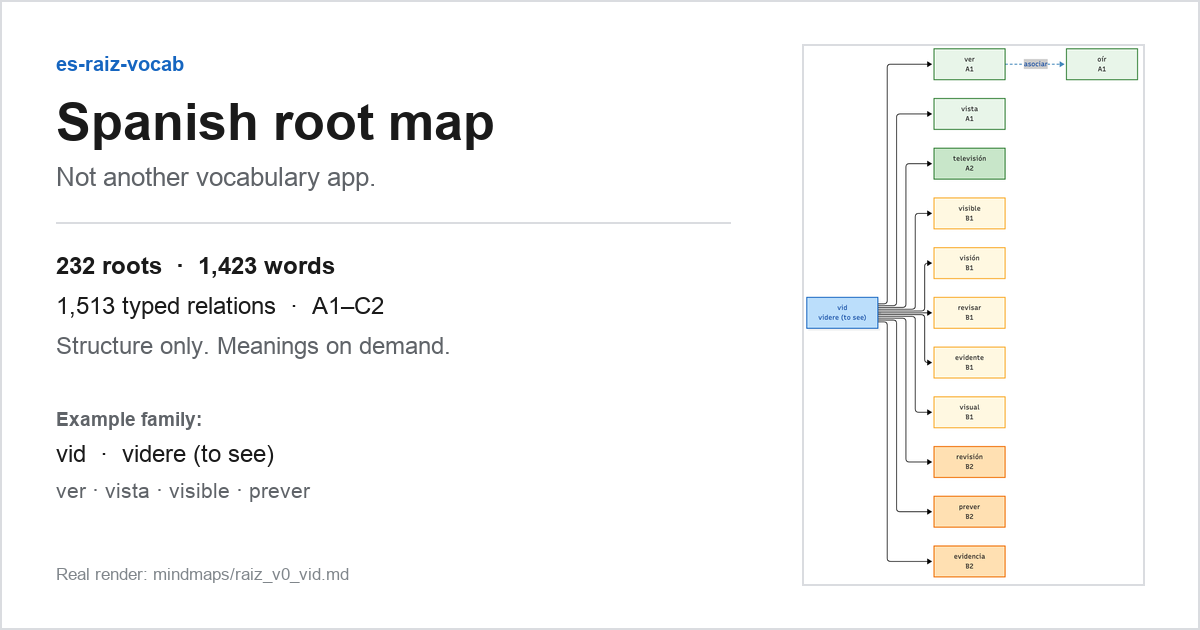
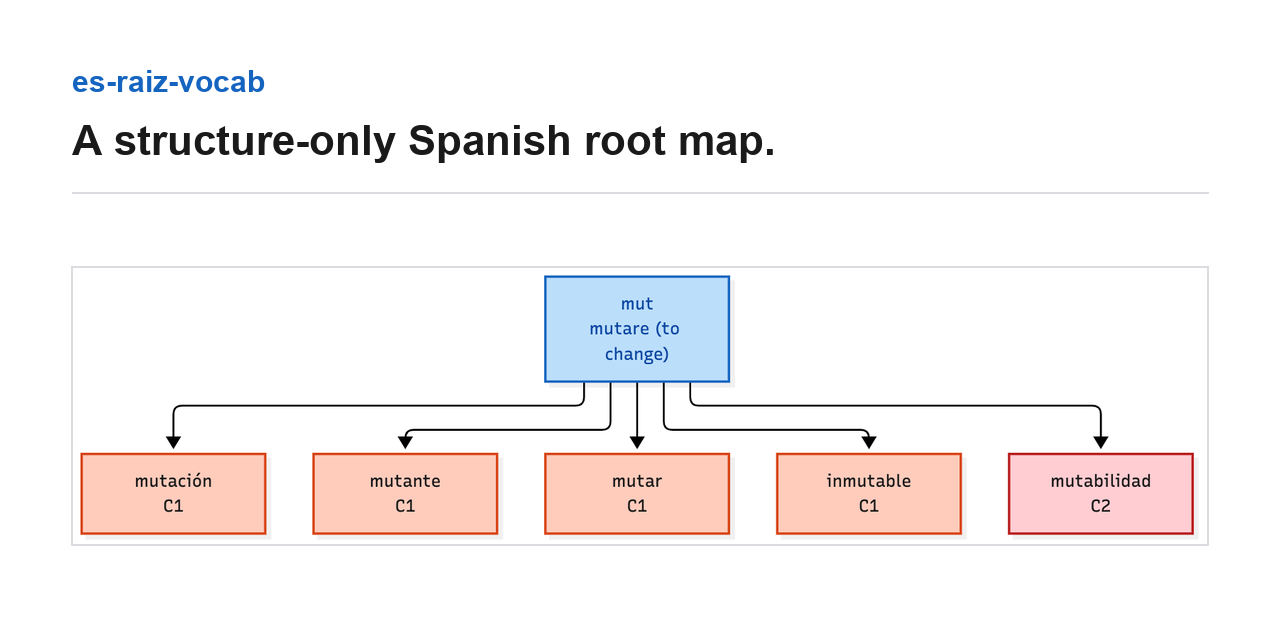
feat(assets): compose 1280x640 social card from real mut render
Compose the card locally with Pillow from the unmodified mut Mermaid base, update both README captions, and document the new script and completed spec. No image model was used.

diff --git a/scripts/make_root_tree_social_card.py b/scripts/make_root_tree_social_card.py
@@ -1,0 +1,98 @@
+#!/usr/bin/env python3
+# -*- coding: utf-8 -*-
+"""Compose the 1280x640 GitHub social card from the real Mermaid base render.
+
+Input:  assets/root_tree-social-base.png  (mmdc render of the real `mut` family)
+Output: assets/root_tree.png              (1280x640 card, no image model)
+
+The diagram is pasted unchanged apart from uniform scaling. No node is added,
+removed, renamed, or recolored.
+
+Optional dependency: Pillow (not required by the data pipeline).
+
+Usage:
+    python scripts/make_root_tree_social_card.py
+"""
+
+from __future__ import annotations
+
+from pathlib import Path
+
+try:
+    from PIL import Image, ImageDraw, ImageFont
+except ImportError:  # pragma: no cover
+    raise SystemExit("缺少 Pillow，请先执行：pip install pillow")
+
+REPO_ROOT = Path(__file__).resolve().parent.parent
+BASE = REPO_ROOT / "assets" / "root_tree-social-base.png"
+OUTPUT = REPO_ROOT / "assets" / "root_tree.png"
+
+WIDTH, HEIGHT = 1280, 640
+MARGIN = 72
+
+INK = "#1a1a1a"
+BLUE = "#1565c0"
+LINE = "#dadce0"
+WHITE = "#ffffff"
+
+PROJECT_NAME = "es-raiz-vocab"
+TAGLINE = "A structure-only Spanish root map."
+
+
+def load_font(size: int, bold: bool = False):
+    candidates = [
+        "/System/Library/Fonts/Supplemental/Arial Bold.ttf" if bold else "/System/Library/Fonts/Supplemental/Arial.ttf",
+        "/System/Library/Fonts/Supplemental/Arial.ttf",
+        "/System/Library/Fonts/Helvetica.ttc",
+        "/usr/share/fonts/truetype/dejavu/DejaVuSans-Bold.ttf" if bold else "/usr/share/fonts/truetype/dejavu/DejaVuSans.ttf",
+    ]
+    for path in candidates:
+        try:
+            return ImageFont.truetype(path, size)
+        except OSError:
+            continue
+    return ImageFont.load_default()
+
+
+def main() -> int:
+    if not BASE.exists():
+        raise SystemExit(
+            "缺少 assets/root_tree-social-base.png，请先按 assets/root_tree-spec.md 渲染"
+        )
+
+    canvas = Image.new("RGB", (WIDTH, HEIGHT), WHITE)
+    draw = ImageDraw.Draw(canvas)
+
+    draw.text((MARGIN, 64), PROJECT_NAME, font=load_font(30, bold=True), fill=BLUE)
+    draw.text((MARGIN, 116), TAGLINE, font=load_font(42, bold=True), fill=INK)
+    draw.line([MARGIN, 192, WIDTH - MARGIN, 192], fill=LINE, width=2)
+
+    diagram = Image.open(BASE).convert("RGB")
+    max_width = WIDTH - 2 * MARGIN
+    scale = min(1.0, max_width / diagram.width)
+    new_size = (
+        max(1, int(diagram.width * scale)),
+        max(1, int(diagram.height * scale)),
+    )
+    diagram = diagram.resize(new_size, Image.LANCZOS)
+
+    x = (WIDTH - new_size[0]) // 2
+    top = 220
+    bottom = HEIGHT - 48
+    y = top + (bottom - top - new_size[1]) // 2
+
+    canvas.paste(diagram, (x, y))
+    draw.rectangle(
+        [x - 1, y - 1, x + new_size[0], y + new_size[1]],
+        outline=LINE,
+        width=2,
+    )
+
+    canvas.save(OUTPUT, format="PNG", optimize=True)
+    print("written: {0} ({1}x{2})".format(OUTPUT.relative_to(REPO_ROOT), WIDTH, HEIGHT))
+    print("diagram: {0}x{1} at ({2}, {3})".format(new_size[0], new_size[1], x, y))
+    return 0
+
+
+if __name__ == "__main__":
+    raise SystemExit(main())

diff --git a/assets/README.md b/assets/README.md
@@ -8,9 +8,9 @@ README visuals for `es-raiz-vocab`.
 | --- | --- | --- |
 | `root_tree.svg` | Vector render of the selected `mut` family (exact generated Mermaid, `graph LR`) | `mindmaps/raiz_b12_mut.md` |
 | `root_tree-social-base.svg` | Top-down (`graph TD`) presentation render of the same `mut` nodes, for a 2:1 card | same Mermaid block; only `rankdir` changed |
-| `root_tree-social-base.png` | 1600 × 392 PNG base for the 1280 × 640 social card | same |
-| `root_tree_family.png` | Pure PNG render of the older `vid` family (1013 × 1600) | `mindmaps/raiz_v0_vid.md` |
-| `root_tree.png` | **Legacy** 1200 × 630 `vid` card; replace it with the 1280 × 640 card described in `root_tree-spec.md` | `scripts/make_root_tree_card.py` |
+| `root_tree-social-base.png` | 1600 × 392 PNG base for the 1280 × 640 local composition | same |
+| `root_tree_family.png` | Legacy pure PNG render of the older `vid` family (1013 × 1600) | `mindmaps/raiz_v0_vid.md` |
+| `root_tree.png` | 1280 × 640 social card, composed locally from the `mut` base with Pillow | `scripts/make_root_tree_social_card.py` |
 | `root_tree-spec.md` | Social preview spec, selected branch, render commands, and QA checklist | handwritten |
 | `demo.gif` | **Labeled placeholder, not a recording** (1200 × 630) | `scripts/make_demo_placeholder.py` |
 
@@ -18,7 +18,7 @@ README visuals for `es-raiz-vocab`.
 
 `mindmaps/root_tree.md` is an **index** (tables of 232 roots). It contains **zero** fenced `mermaid` blocks, so `mmdc -i mindmaps/root_tree.md` has nothing to render.
 
-The new base assets are rendered from a real generated family page, `mindmaps/raiz_b12_mut.md` (`mut` = “to change”, 5 derivatives, all C1/C2). The older `root_tree_family.png` and `root_tree.png` still use `vid`; the 1200 × 630 card is legacy and should be replaced with the 1280 × 640 card described in [`root_tree-spec.md`](root_tree-spec.md).
+The new base assets and the 1280 × 640 card are rendered from a real generated family page, `mindmaps/raiz_b12_mut.md` (`mut` = “to change”, 5 derivatives, all C1/C2). The legacy `root_tree_family.png` still uses `vid`; the old `scripts/make_root_tree_card.py` is kept only for the earlier 1200 × 630 card.
 
 ## Regenerate
 
@@ -54,17 +54,20 @@ PUPPETEER_EXECUTABLE_PATH="/Applications/Google Chrome.app/Contents/MacOS/Google
   -o assets/root_tree-social-base.png \
   -b white --size 1600
 
-# 4. Regenerate the labeled demo placeholder (optional)
+# 4. Compose the 1280 × 640 social card from the real base
+python scripts/make_root_tree_social_card.py
+
+# 5. Regenerate the labeled demo placeholder (optional)
 python scripts/make_demo_placeholder.py
 ```
 
-Legacy assets: `root_tree_family.png` and `root_tree.png` still come from the older `vid` render and `scripts/make_root_tree_card.py` (1200 × 630). Do not use that script for the new 1280 × 640 card; see [`root_tree-spec.md`](root_tree-spec.md).
+Legacy assets: `root_tree_family.png` and `scripts/make_root_tree_card.py` produce the older 1200 × 630 `vid` card. Do not use that script for `root_tree.png`; use `make_root_tree_social_card.py`.
 
 On Linux, replace the Chrome path with the installed Chrome/Chromium executable, or let puppeteer manage its own browser.
 
 ## Social preview
 
-`assets/root_tree.png` is currently the **legacy 1200 × 630 `vid` card**. Do not upload it as the new preview. Follow [`root_tree-spec.md`](root_tree-spec.md): use `root_tree-social-base.png` to produce a **1280 × 640** card, then upload it manually in **Settings → Social preview** and check that the text and graph are legible at small size. Do not claim it is active until the upload is confirmed.
+`assets/root_tree.png` is the **1280 × 640 `mut` card** composed locally with Pillow from the unmodified Mermaid base. Upload it manually in **Settings → Social preview**, then check that the text and graph are legible at small size. Do not claim it is active until the upload is confirmed.
 
 ## Rules
 

diff --git a/assets/root_tree-spec.md b/assets/root_tree-spec.md
@@ -1,10 +1,10 @@
 # Social preview card spec — `assets/root_tree.png`
 
-- Status: **base render ready; final 1280 × 640 card not yet produced**
+- Status: **complete — 1280 × 640 card composed locally with Pillow**
 - Last updated: 2026-11-08
 - Target file: `assets/root_tree.png`
-- Current `assets/root_tree.png`: still the old **1200 × 630** `vid` card. Replace it; do not upload it as the new GitHub Social preview.
-- README reference: both `README.md` and `README.zh-CN.md` already point to `assets/root_tree.png`; keep that path.
+- Current `assets/root_tree.png`: **1280 × 640** `mut` card, composed on 2026-11-08 by `scripts/make_root_tree_social_card.py`; no image model was used.
+- README reference: both `README.md` and `README.zh-CN.md` point to `assets/root_tree.png`; the path is unchanged.
 
 ## 1. Selected branch
 
@@ -43,8 +43,8 @@ Why this branch:
 | --- | --- | --- |
 | `assets/root_tree.svg` | Exact render of the extracted `mut` Mermaid block, `graph LR`; `click` lines removed so the SVG has no interactive links | Ready |
 | `assets/root_tree-social-base.svg` | Top-down presentation layout (`graph TD`) of the same nodes, edges, labels, and classes; **only `rankdir` changed** | Ready |
-| `assets/root_tree-social-base.png` | 1600 × 392 PNG of the top-down layout, intended as the image-to-image base for 豆包 | Ready |
-| `assets/root_tree.png` | Final 1280 × 640 social card | **Still the old 1200 × 630 `vid` card; replace manually** |
+| `assets/root_tree-social-base.png` | 1600 × 392 PNG of the top-down layout, used as the base for the local 1280 × 640 composition (also usable for image-to-image) | Ready |
+| `assets/root_tree.png` | Final 1280 × 640 social card | **Ready — composed locally with `scripts/make_root_tree_social_card.py`** |
 
 The generated page remains `graph LR`. The `TD` version exists only because a left-to-right family graph stacks seven or more siblings vertically and becomes unreadable when fitted into a 2:1 social card. No node, edge, label, CEFR value, or color was changed.
 
@@ -92,15 +92,17 @@ Suggested composition:
 
 The diagram can run full-width under the title. Leave the bottom area empty rather than adding more text.
 
-## 5. Recommended workflow
+## 5. Completed workflow
 
-1. Start from `assets/root_tree-social-base.png` (1600 × 392) or `assets/root_tree-social-base.svg`.
-2. Use 豆包 / Seedream as an **image-to-image / canvas-expansion** tool, not as a text-to-image generator.
-3. Expand the canvas to **1280 × 640**, keep the diagram unchanged, add only the project name and the one sentence.
-4. Export PNG at 1280 × 640, sRGB, < 1 MB.
-5. Verify every character manually against this spec and `mindmaps/raiz_b12_mut.md`.
-6. Replace `assets/root_tree.png`. Do not change the README image path.
-7. Upload the new file in **GitHub → Settings → Social preview**, then check new Reddit, old Reddit, and mobile.
+The current card was composed locally with `scripts/make_root_tree_social_card.py` on 2026-11-08. No image model was used.
+
+1. Render the real `mut` Mermaid block to `assets/root_tree-social-base.png`.
+2. Run `python scripts/make_root_tree_social_card.py`; it scales the diagram uniformly and adds only the project name and the one sentence.
+3. Verify every character against this spec and `mindmaps/raiz_b12_mut.md`.
+4. Replace `assets/root_tree.png`; the README image path stays the same.
+5. Upload the file in **GitHub → Settings → Social preview**, then check new Reddit, old Reddit, and mobile.
+
+For a future redesign, the same rule applies: start from the real render. The 豆包 prompt below is optional and must be used as **image-to-image**, never text-to-image.
 
 Suggested 豆包 prompt (image-to-image):
 

diff --git a/README.zh-CN.md b/README.zh-CN.md
@@ -14,9 +14,9 @@
 [![License: MIT](https://img.shields.io/badge/License-MIT-yellow.svg)](LICENSE)
 ![Python 3.9+](https://img.shields.io/badge/Python-3.9%2B-blue)
 
-![一张横向卡片，内容来自自动生成的西语词族图：词根 vid（videre，看见）及其派生词，节点按 CEFR 着色，并带一条 asociar 联想边](assets/root_tree.png)
+![一张横向卡片，内容来自自动生成的西语词族图：词根 mut（mutare，改变）及其派生词，节点按 CEFR 着色](assets/root_tree.png)
 
-*卡片内容来自真实生成的词族页：词根 `vid`（“看见”）、它的派生词、CEFR 配色，以及一条 `asociar` 联想边。完整索引包含 232 个词根，每个词根链接到自己的图页。*
+*卡片内容来自真实生成的词族页：词根 `mut`（“改变”）和 5 个 C1/C2 派生词。完整索引包含 232 个词根，每个词根链接到自己的图页。*
 
 ---
 
@@ -162,7 +162,8 @@ es-raiz-vocab/
 │   ├── generate_mermaid.py   # data -> mindmaps/ + levels/
 │   ├── build_no_raiz.py      # data -> no-raiz-vocab.md + 可选 YAML
 │   ├── export_pdf.py         # 可选离线 PDF -> dist/pdf/
-│   ├── make_root_tree_card.py    # 可选：生成 README / 社交预览横版卡片
+│   ├── make_root_tree_card.py    # 可选：旧版 1200x630 卡片
+│   ├── make_root_tree_social_card.py  # 可选：从真实底图合成 1280x640 卡片
 │   └── make_demo_placeholder.py  # 可选：生成 assets/demo.gif 占位图
 ├── mindmaps/                 # 生成物：词根索引 + 每个词族一张图
 ├── levels/                   # 生成物：A1.md ... C2.md

diff --git a/README.md b/README.md
@@ -14,9 +14,9 @@
 [![License: MIT](https://img.shields.io/badge/License-MIT-yellow.svg)](LICENSE)
 ![Python 3.9+](https://img.shields.io/badge/Python-3.9%2B-blue)
 
-![A landscape card built from a real generated Spanish root-family map for vid (videre, "to see"), with CEFR-colored derivative nodes and an associative link to oír](assets/root_tree.png)
+![A landscape card built from a real generated Spanish root-family map for mut (mutare, to change), with CEFR-colored derivative nodes](assets/root_tree.png)
 
-*Built from a real generated page: root `vid` (“to see”), its derivatives, CEFR colors, and one `asociar` link. The full index contains 232 roots and links to one page per family.*
+*Built from a real generated page: root `mut` (“to change”) and its five C1/C2 derivatives. The full index contains 232 roots and links to one page per family.*
 
 ---
 
@@ -162,7 +162,8 @@ es-raiz-vocab/
 │   ├── generate_mermaid.py   # data -> mindmaps/ + levels/
 │   ├── build_no_raiz.py      # data -> no-raiz-vocab.md + optional YAML
 │   ├── export_pdf.py         # optional offline PDF bundles -> dist/pdf/
-│   ├── make_root_tree_card.py    # optional: landscape README / social card
+│   ├── make_root_tree_card.py    # optional: legacy 1200x630 card
+│   ├── make_root_tree_social_card.py  # optional: 1280x640 card from the real base
 │   └── make_demo_placeholder.py  # optional: labeled assets/demo.gif placeholder
 ├── mindmaps/                 # generated: root index + one graph per family
 ├── levels/                   # generated: A1.md ... C2.md
